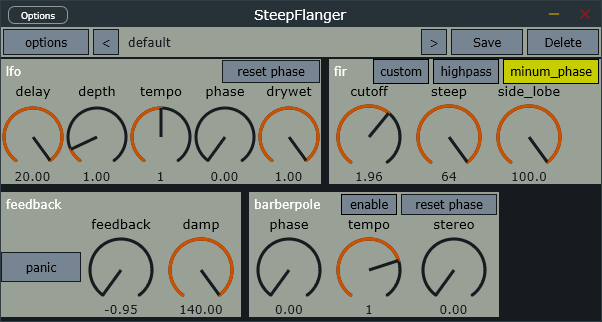
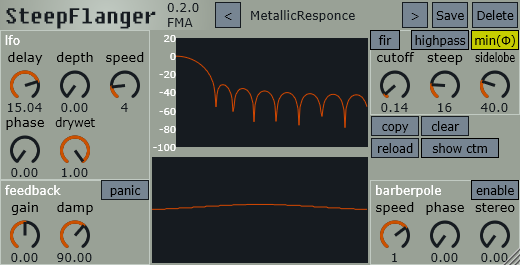
更新readme

diff --git a/README.md b/README.md
@@ -1,12 +1,10 @@
 # steep flanger
-steep flanger is a FIR flanger plugin.
+steep flanger is a FIR/IIR flanger plugin.
 
 ## features
 FIR flanger  
+IIR flanger  
 barberpole flanging  
-
-## signal-flow
-![alt text](docs/image.png)
 
 ## gui
 ![GUI](docs/gui.png)
@@ -15,26 +13,80 @@ barberpole flanging
 [bilibili](https://www.bilibili.com/video/BV198npzXEPn)  
 [youtube](https://www.youtube.com/watch?v=yQ357S2LP2w)  
 
-## MacOS
+## Install Plugin / 安装插件
+
+从Release下载对应操作系统的压缩包，解压后大致会看到这样的结构  
+Download the compressed package for the corresponding operating system from Release. After extracting it, you will generally see a structure like this:  
+
+```text
+pluginName-win-vX.Y.Z.zip
+  VST3/
+    PluginName.vst3/
+
+pluginName-macos-vX.Y.Z.zip
+  AU/
+    PluginName.component/
+  VST3/
+    PluginName.vst3/
+
+pluginName-linux-vX.Y.Z.zip
+  LV2/
+    PluginName.lv2/
+  VST3/
+    PluginName.vst3/
+```
+
+安装时请直接复制这些文件夹之一：  
+When installing, copy one of these folders directly:
+
+- `PluginName.vst3`
+- `PluginName.component`
+- `PluginName.lv2`
+
+常见安装目录：  
+Common install locations:
+
+- Windows VST3: `C:\Program Files\Common Files\VST3\`
+- macOS VST3: `/Library/Audio/Plug-Ins/VST3/` or `~/Library/Audio/Plug-Ins/VST3/`
+- macOS AU: `/Library/Audio/Plug-Ins/Components/` or `~/Library/Audio/Plug-Ins/Components/`
+- Linux LV2: `~/.lv2/` or `/usr/lib/lv2/`
+- Linux VST3: `~/.vst3/` or `/usr/lib/vst3/`
+
+例如在 Windows 上，不要复制 `VST3` 文件夹本身，而是把其中的 `PluginName.vst3` 整个文件夹复制到 `C:\Program Files\Common Files\VST3\`。  
+For example, on Windows, do not copy the `VST3` folder itself. Copy the whole `PluginName.vst3` folder inside it to `C:\Program Files\Common Files\VST3\`.
+
+额外的，macOS 用户还需要做以下工作：  
+Additionally, macOS users may need to do the following:
 
 ```bash
 sudo xattr -dr com.apple.quarantine /path/to/your/plugins/plugin_name.component
 sudo xattr -dr com.apple.quarantine /path/to/your/plugins/plugin_name.vst3
 sudo xattr -dr com.apple.quarantine /path/to/your/plugins/plugin_name.lv2
 ```
-## build
+
+如果 macOS 阻止打开下载的插件，可以对插件 bundle 执行上面的命令来移除 quarantine 属性。  
+If macOS blocks a downloaded plugin, you can run the commands above on the plugin bundle to remove the quarantine attribute.
+
+## signal-flow
+### FIR PART ###
+![alt text](docs/image.png)
+
+### IIR PART ###
+TODO
+
+## 构建(Build)
 
 ```bash
-git clone --recurse https://github.com/ManasWorld/SteepFlanger.git
+git clone --recurse https://github.com/ManasWolrd/SteepFlanger.git
 
-# windows
+# Windows
 cmake -G "Ninja" -DCMAKE_C_COMPILER=clang -DCMAKE_CXX_COMPILER=clang -DCMAKE_BUILD_TYPE=Release -S . -B build
 cmake --build build --config Release
 
-# linux
+# Linux
 sudo apt update
 sudo apt-get install libx11-dev libfreetype-dev libfontconfig1-dev libasound2-dev libxrandr-dev libxinerama-dev libxcursor-dev
-cmake -G "Unix Makefiles" -DCMAKE_BUILD_TYPE=Release -S . -B .build
+cmake -G "Unix Makefiles" -DCMAKE_BUILD_TYPE=Release -S . -B build
 cmake --build build --config Release
 
 # macOS
